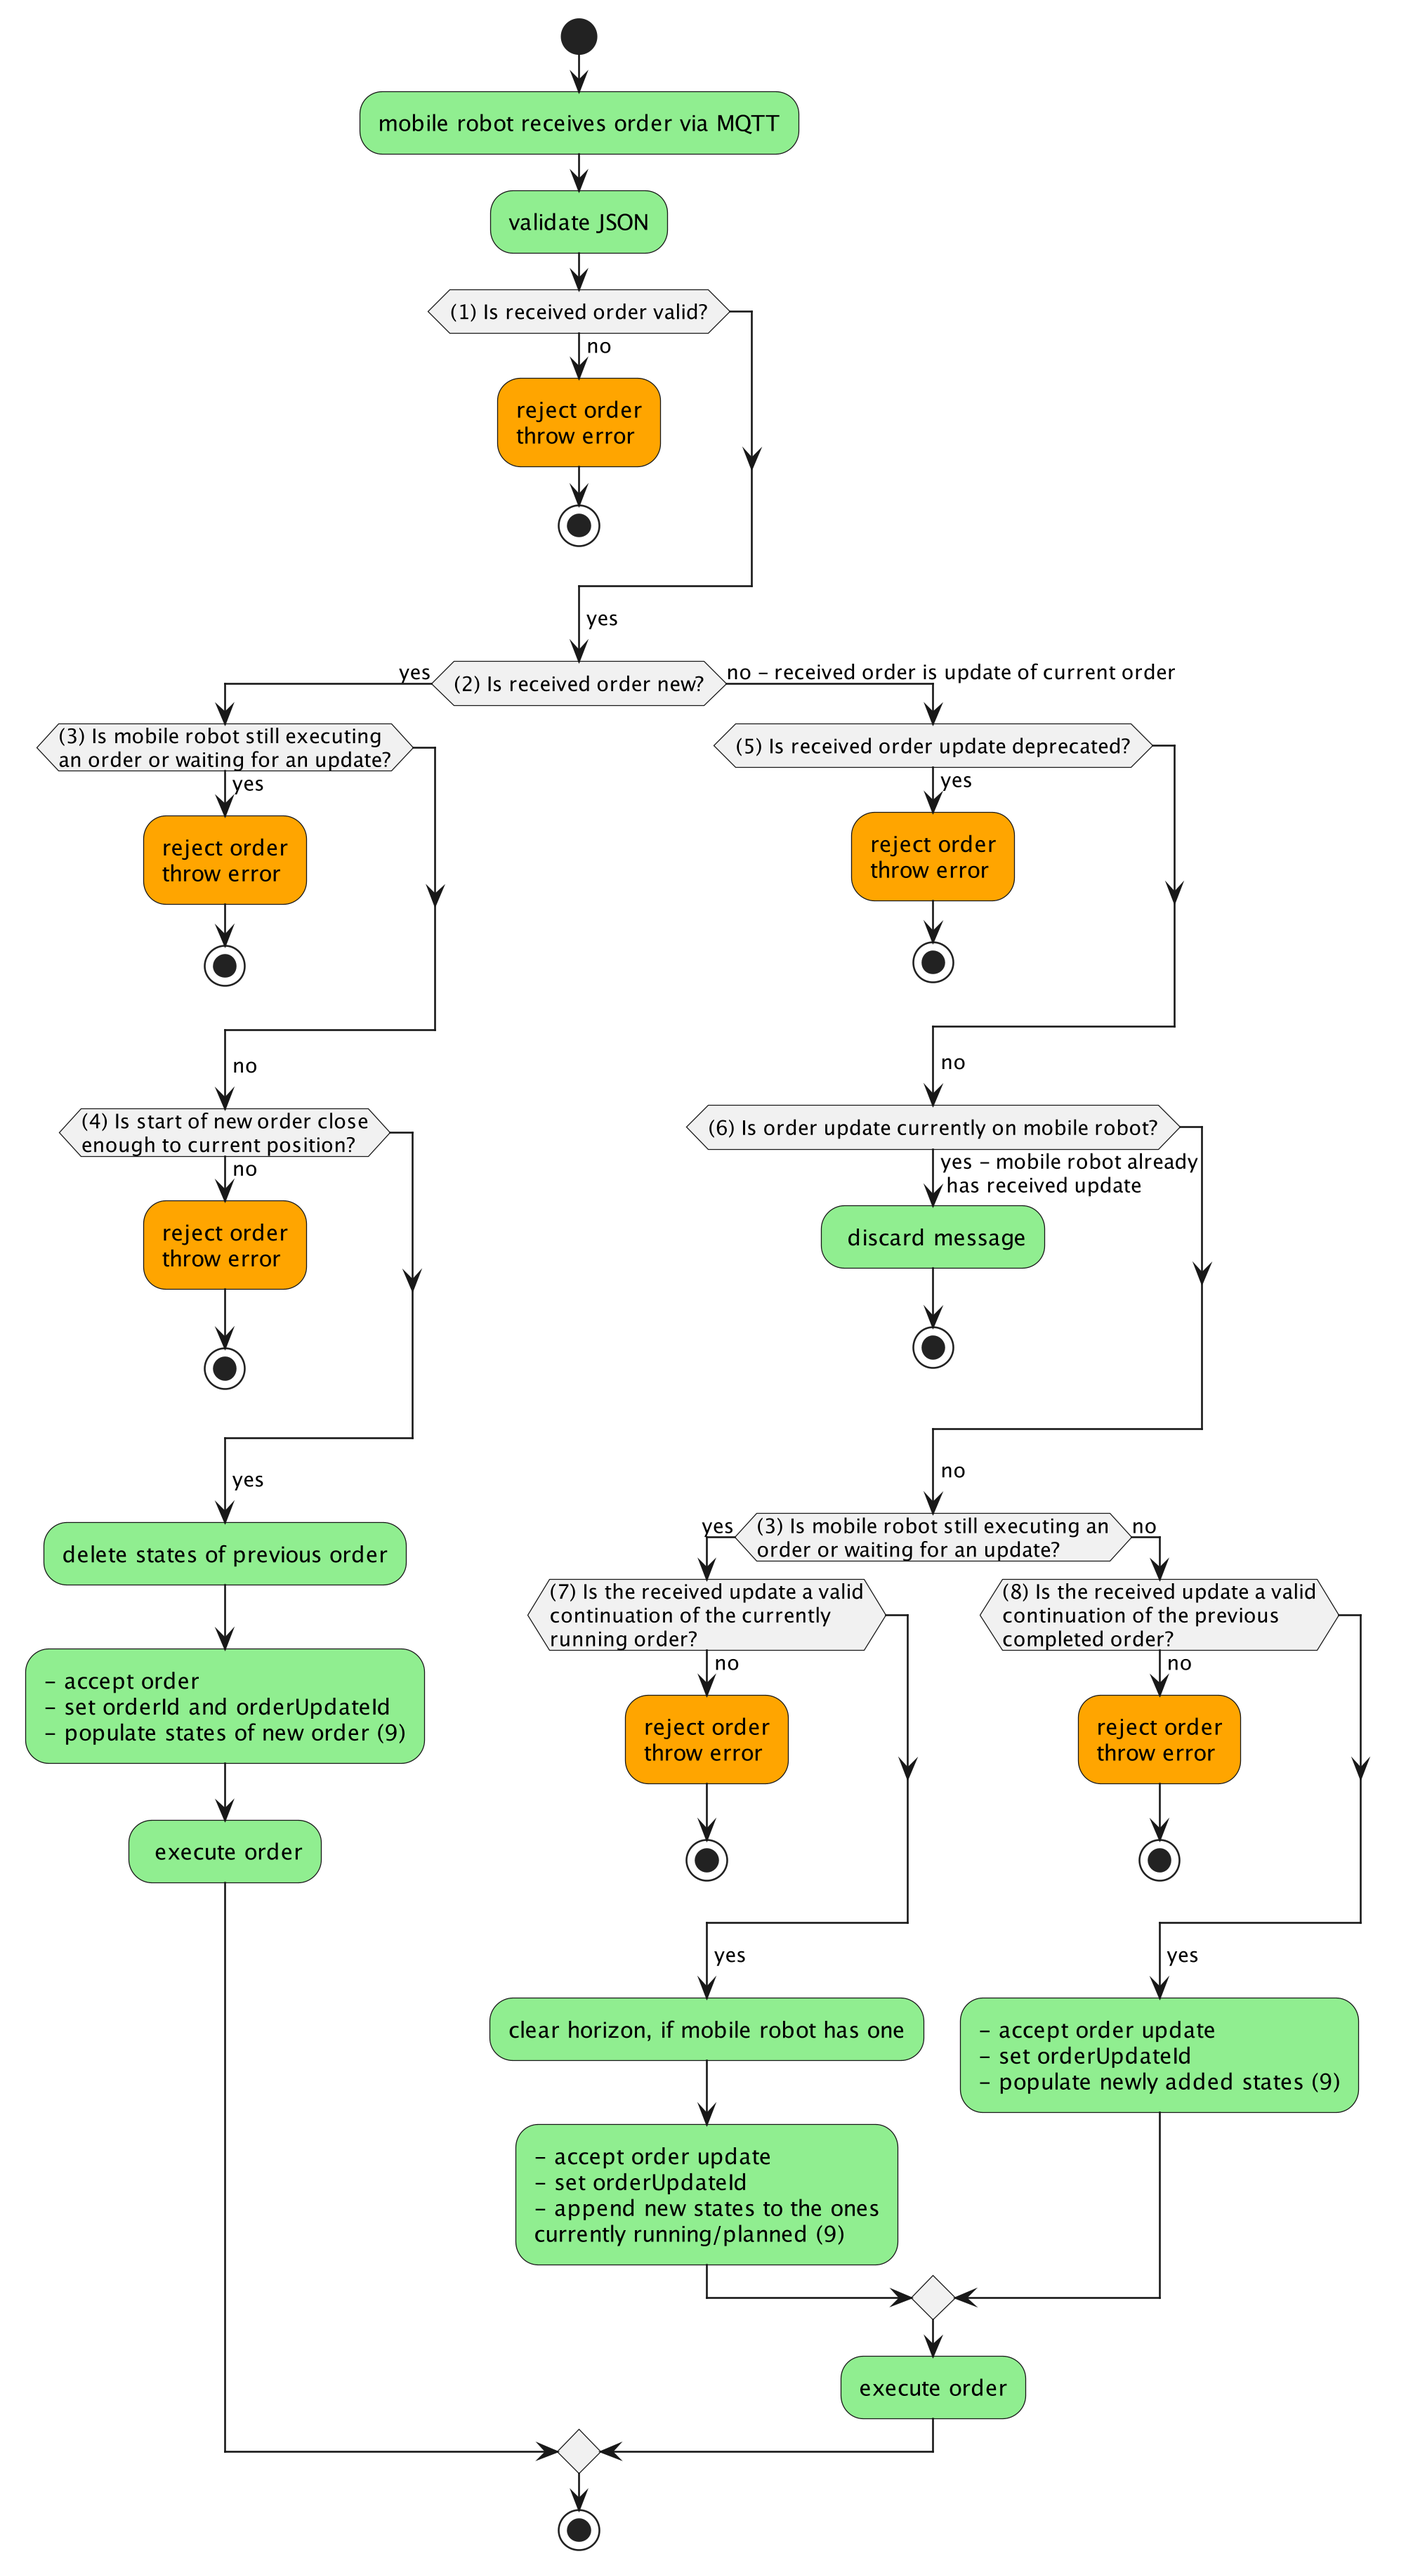
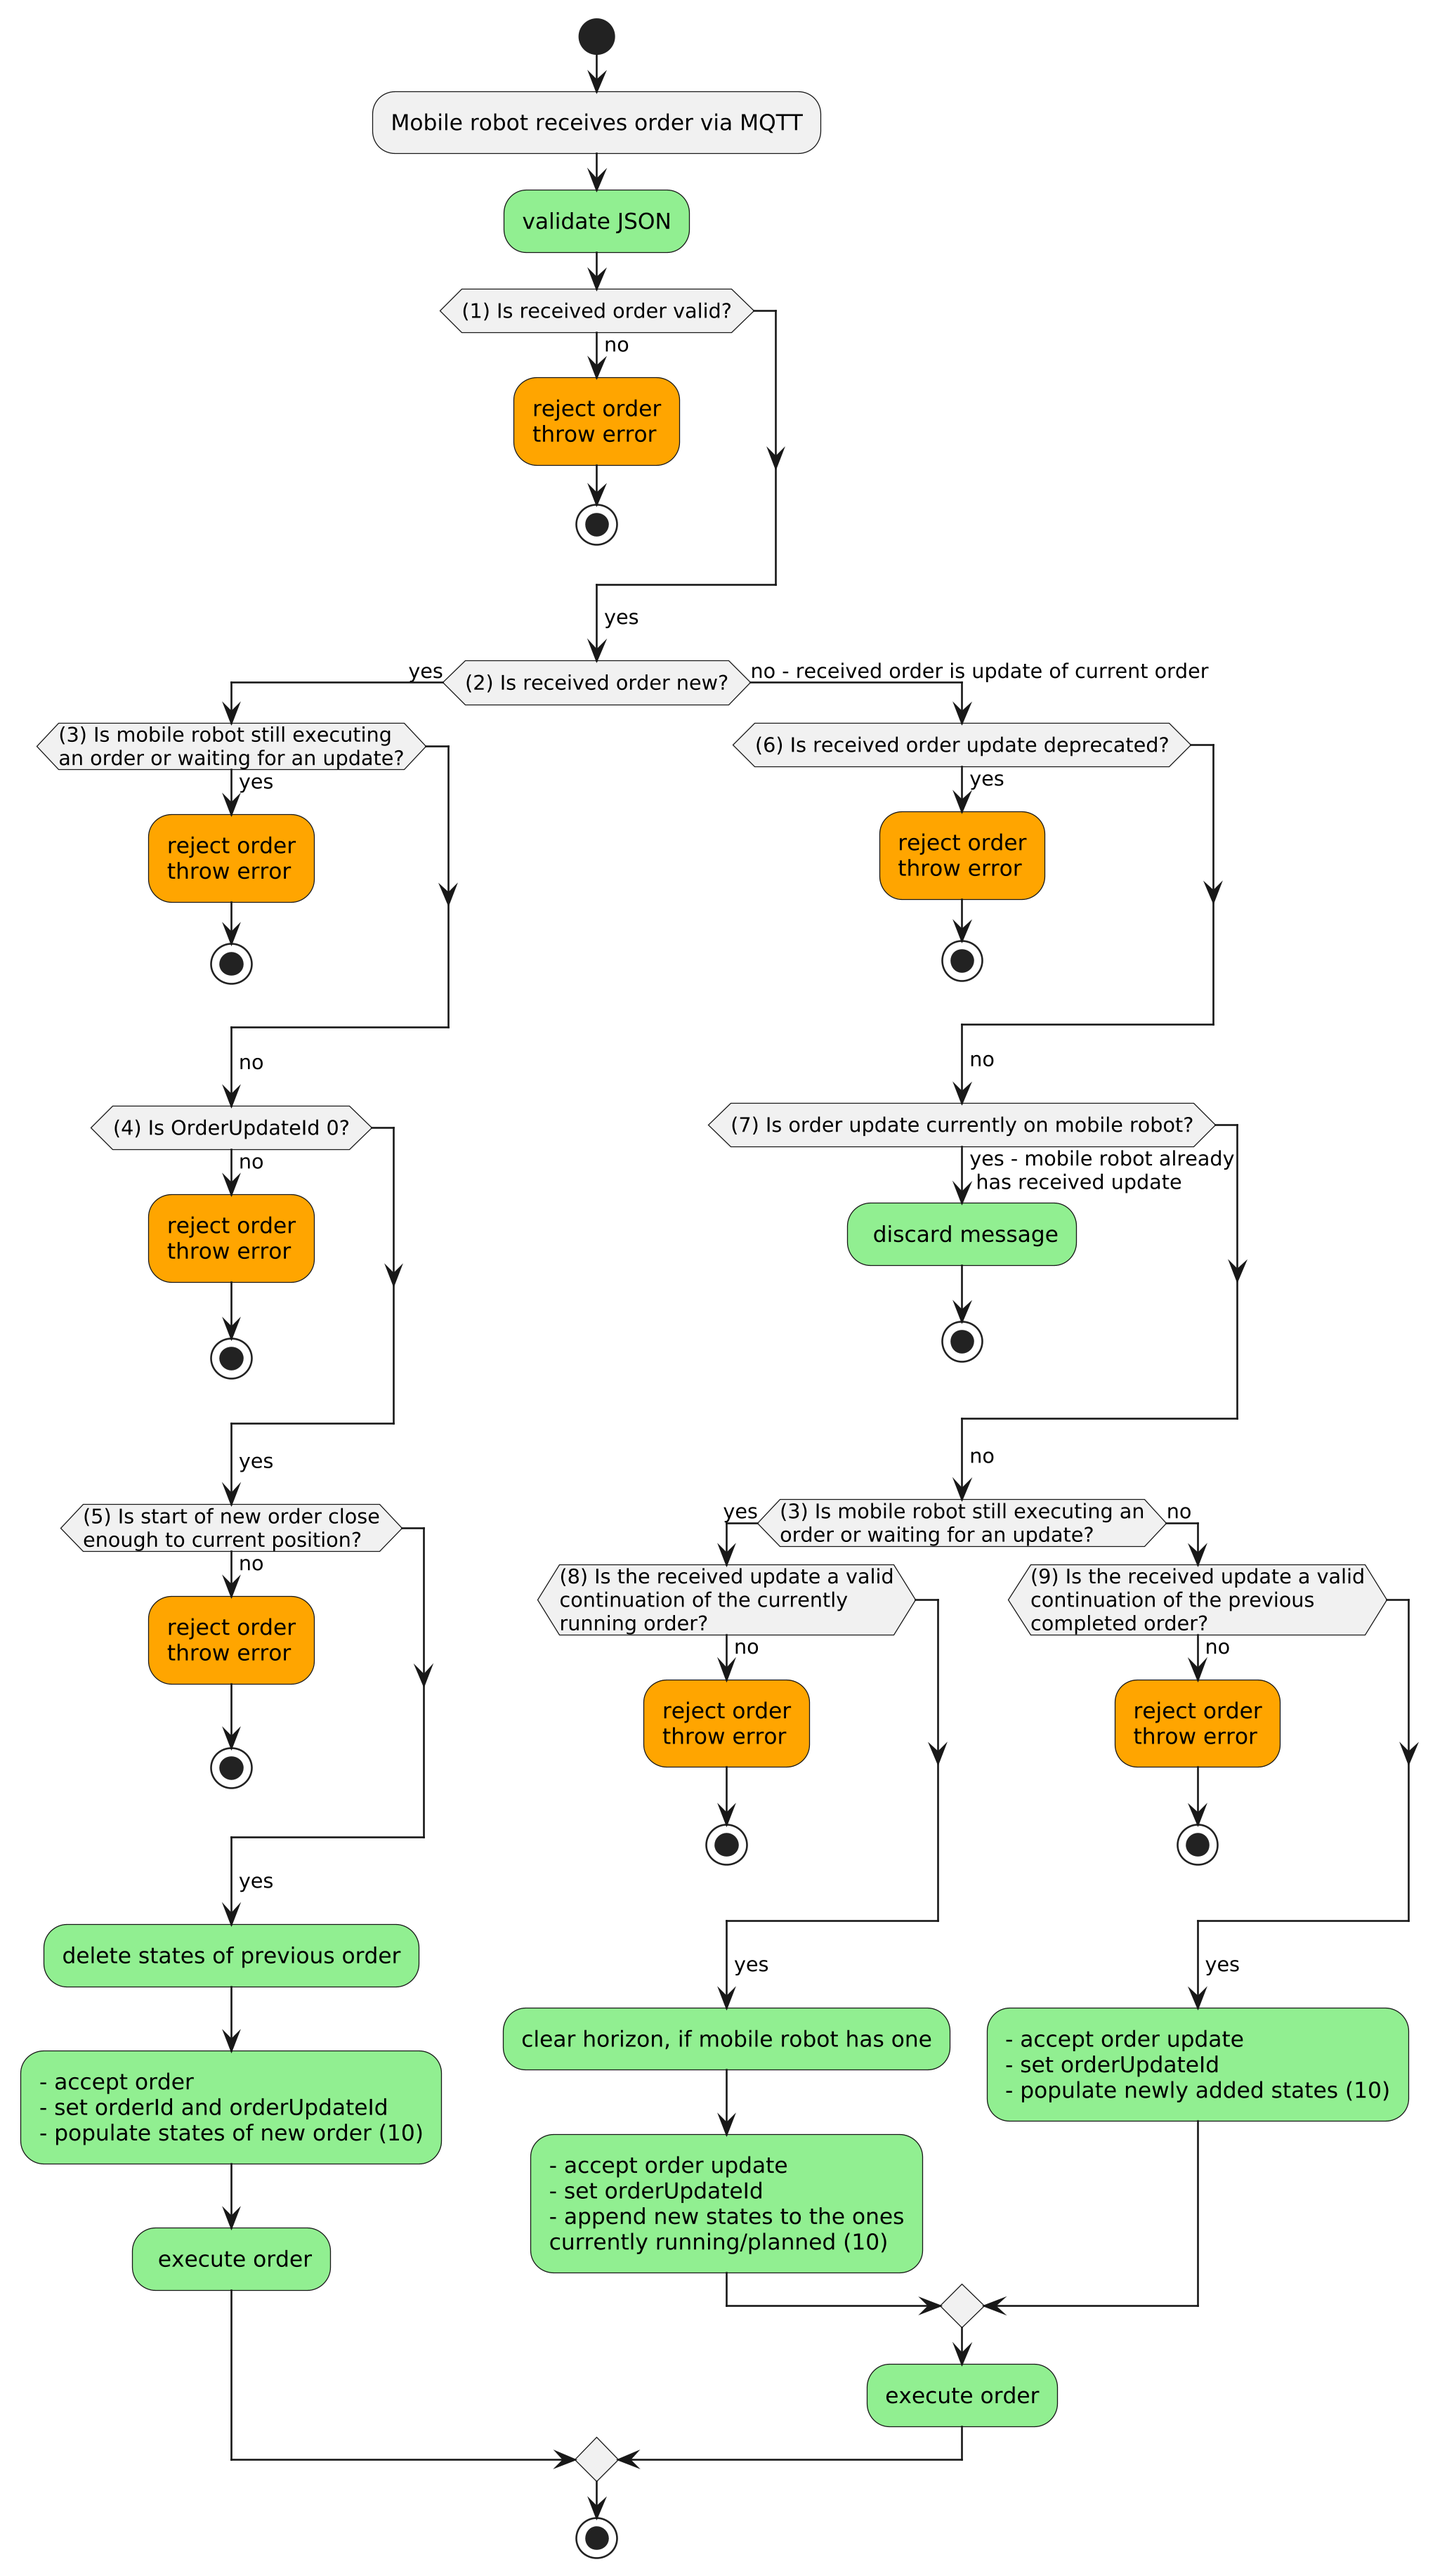
Defined starting orderUpdateId as 0 Updated the property description Updated the diagram to check for it

diff --git a/VDA5050_EN.md b/VDA5050_EN.md
@@ -452,17 +452,19 @@ Is `orderId` of the received order different to `orderId` of order the mobile ro
 3)	**is mobile robot still executing an order or waiting for an update?**:
 Are `nodeStates` not empty or are `actionStates` containing states which are neither 'FAILED' nor 'FINISHED'? Nodes and edges and the corresponding action states of the order horizon are also included inside the state. Mobile robot might still have a horizon and therefore be waiting for an update and executing an order.
 
-4) **is start of new order close enough to current position?**:	Is the mobile robot already standing on the node, or is it in the node's deviation range ([6.1.1 Concept and logic](#611-concept-and-logic))?
+4)	**is OrderUpdateId 0?**: Is the `orderUpdateId` of the new order 0?
 
-5) **is received order update deprecated?**: Is `orderUpdateId` smaller than the one currently on the mobile robot?
+5) **is start of new order close enough to current position?**:	Is the mobile robot already standing on the node, or is it in the node's deviation range ([6.1.1 Concept and logic](#611-concept-and-logic))?
 
-6)	**is received order update currently on mobile robot?**: Is `orderUpdateId` equal to the one currently on the mobile robot?
+6) **is received order update deprecated?**: Is `orderUpdateId` smaller than the one currently on the mobile robot?
 
-7)	**is the received update a valid continuation of the currently still running order?**:	Is the first node of the received order the current decision point according to the order update chapter? The mobile robot is still moving or executing actions related to the base released in previous order updates or still has a horizon and is therefore waiting for a continuation of the order. In this case, the order update is only accepted if the first node of the new base is equal to the last node of the previous base.
+7)	**is received order update currently on mobile robot?**: Is `orderUpdateId` equal to the one currently on the mobile robot?
 
-8)	**is the received update a valid continuation of the previously completed order?**: Is the first node of the received order the current decision point according to the order update chapter? The mobile robot is not executing any actions anymore neither is it waiting for a continuation of the order (meaning that it has completed its base with all related actions and does not have a horizon). In this case, the order update is only accepted if the first node of the new base is equal to the last node of the previous base.
+8)	**is the received update a valid continuation of the currently still running order?**:	Is the first node of the received order the current decision point according to the order update chapter? The mobile robot is still moving or executing actions related to the base released in previous order updates or still has a horizon and is therefore waiting for a continuation of the order. In this case, the order update is only accepted if the first node of the new base is equal to the last node of the previous base.
 
-9)	populate/append new states to the `actionStates`/`nodeStates`/`edgeStates`.
+9)	**is the received update a valid continuation of the previously completed order?**: Is the first node of the received order the current decision point according to the order update chapter? The mobile robot is not executing any actions anymore neither is it waiting for a continuation of the order (meaning that it has completed its base with all related actions and does not have a horizon). In this case, the order update is only accepted if the first node of the new base is equal to the last node of the previous base.
+
+10)	populate/append new states to the `actionStates`/`nodeStates`/`edgeStates`.
 
 #### 6.1.2.1 Finishing an order  
 
@@ -1322,7 +1324,7 @@ version | | string | Version of the protocol [Major].[Minor].[Patch] (e.g., 1.3.
 manufacturer | | string | Manufacturer of the mobile robot.
 serialNumber | | string | Serial number of the mobile robot.
 orderId | | string | Order identification.<br> This is to be used to identify multiple order messages that belong to the same order.
-orderUpdateId | | uint32 | Order update identification.<br>Is unique per orderId.<br>If an order update is rejected, this field is to be passed in the rejection message.
+orderUpdateId | | uint32 | Order update identification.<br>Is unique per orderId, starting at 0 for a new order.<br>If an order update is rejected, this field is to be passed in the rejection message.
 *orderDescription* | | string | Additional human-readable information only for visualization purposes; this may not be used for any logical processes.
 **nodes [node]** | | array | Array of node objects to be traversed for fulfilling the order.
 **edges [edge]** | | array | Array of edge objects to be traversed for fulfilling the order.

diff --git a/assets/process_order_update_UML.md b/assets/process_order_update_UML.md
@@ -18,40 +18,45 @@ endif
          stop
        endif
        ->no;
-            if ((4) Is start of new order close\nenough to current position?) then (no)
+            if ((4) Is OrderUpdateId 0?) then (no)
                 #orange:reject order\nthrow error;
                 stop
             endif
             ->yes;
-                #lightgreen:delete states of previous order;
-                #lightgreen:- accept order\n- set orderId and orderUpdateId\n- populate states of new order (9);
-          #lightgreen: execute order;
+                if ((5) Is start of new order close\nenough to current position?) then (no)
+                    #orange:reject order\nthrow error;
+                    stop
+                endif
+                ->yes;
+                    #lightgreen:delete states of previous order;
+                    #lightgreen:- accept order\n- set orderId and orderUpdateId\n- populate states of new order (10);
+                    #lightgreen: execute order;
      else (no - received order is update of current order)
-        if ((5) Is received order update deprecated?) then (yes)
+        if ((6) Is received order update deprecated?) then (yes)
             #orange:reject order\nthrow error;
             stop
         endif
         ->no;
-            if ((6) Is order update currently on mobile robot?) then (yes - mobile robot already\n has received update)
+            if ((7) Is order update currently on mobile robot?) then (yes - mobile robot already\n has received update)
                 #lightgreen: discard message;
                 stop
             endif
             ->no;
                 if ((3) Is mobile robot still executing an\norder or waiting for an update?) then (yes)
-                    if ((7) Is the received update a valid\ncontinuation of the currently\nrunning order?) then (no)
+                    if ((8) Is the received update a valid\ncontinuation of the currently\nrunning order?) then (no)
                       #orange:reject order\nthrow error;
                       stop
                     endif
                     ->yes;
                         #lightgreen:clear horizon, if mobile robot has one;
-                        #lightgreen:- accept order update\n- set orderUpdateId\n- append new states to the ones\ncurrently running/planned (9);
+                        #lightgreen:- accept order update\n- set orderUpdateId\n- append new states to the ones\ncurrently running/planned (10);
                 else (no)
-                    if ((8) Is the received update a valid\ncontinuation of the previous\ncompleted order?) then (no)
+                    if ((9) Is the received update a valid\ncontinuation of the previous\ncompleted order?) then (no)
                         #orange:reject order\nthrow error;
                         stop;
                     endif
                     ->yes;
-                    #lightgreen:- accept order update\n- set orderUpdateId\n- populate newly added states (9);
+                    #lightgreen:- accept order update\n- set orderUpdateId\n- populate newly added states (10);
                 endif
                 #lightgreen:execute order;
     endif
